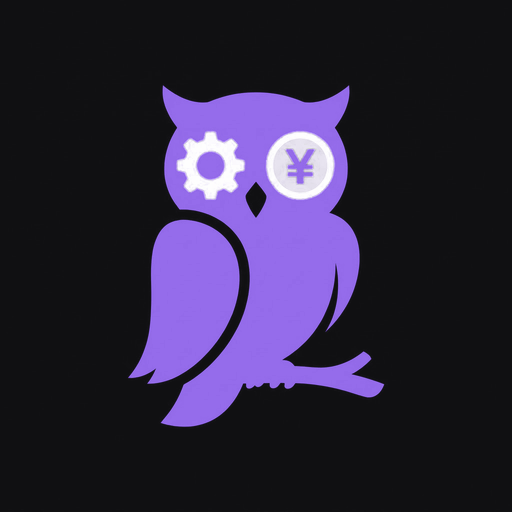
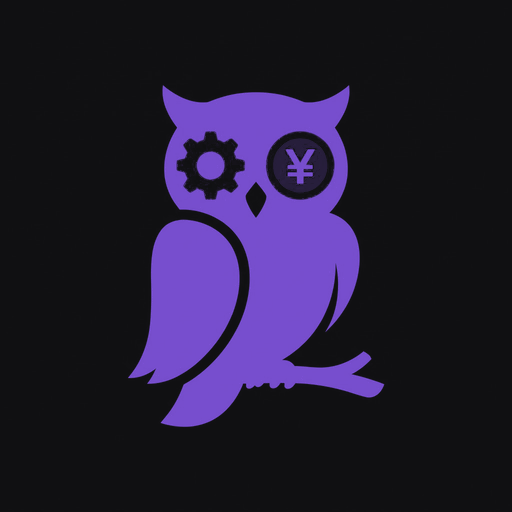
フクリ：アイコンの目を背景色に
Claude-Session: https://claude.ai/code/session_018AqJEQpyqVYXog4wvTo1vf

Changed region(s): [[0.25, 0.1562, 0.75, 0.8438]]

diff --git a/fukuri/index.html b/fukuri/index.html
@@ -11,9 +11,9 @@
 <meta name="apple-mobile-web-app-status-bar-style" content="black">
 <meta name="apple-mobile-web-app-title" content="フクリ">
 <meta name="theme-color" content="#070908">
-<link rel="apple-touch-icon" href="apple-touch-icon.png?v=4">
-<link rel="apple-touch-icon" media="(prefers-color-scheme: dark)" href="apple-touch-icon-dark.png?v=4">
-<link rel="icon" href="icon-192.png?v=4">
+<link rel="apple-touch-icon" href="apple-touch-icon.png?v=5">
+<link rel="apple-touch-icon" media="(prefers-color-scheme: dark)" href="apple-touch-icon-dark.png?v=5">
+<link rel="icon" href="icon-192.png?v=5">
 <link rel="manifest" href="manifest.webmanifest?v=2">
 <style>
 :root{
